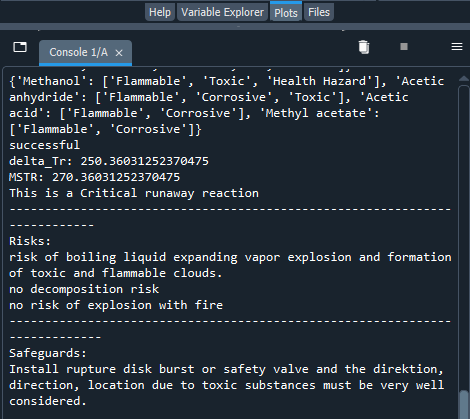
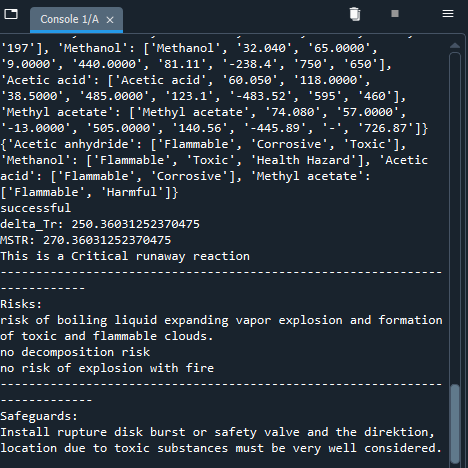
corrected two errors

Changed region(s): [[0.0, 0.0, 1.0, 1.0]]

diff --git a/Yang/Results/Code/Runaway_hazop.py b/Yang/Results/Code/Runaway_hazop.py
@@ -370,7 +370,7 @@ def enter_data():
                     for row in results:
                         subinfo = [row[0], row[1], row[2], row[3], row[4], row[5], row[6], row[7], row[8]]
                         print(subinfo)
-                    query_2 = "SELECT Explosive, Flammable, Oxidizing, CompressedGas, Corrosive, Toxic, Harmful, HealthHazard, EnviromenalHazard FROM stoffdaten_copy WHERE Name = %s"
+                    query_2 = "SELECT Explosive, Flammable, Oxidizing, CompressedGas, Corrosive, Toxic, Harmful, HealthHazard, EnviromenalHazard FROM stoffdaten WHERE Name = %s"
                     cursor.execute(query_2, (sub,))
                     ghs_name = ["Explosive", "Flammable", "Oxidizing", "CompressedGas", "Corrosive", "Toxic", "Harmful", "Health Hazard", "Enviroment Hazard"]
                     result_ghs = cursor.fetchall()
@@ -699,7 +699,7 @@ for i in exist_stoff:
 def consequence_safe_1(overpressure_risk, toxic_risk, flamm_risk):
     if overpressure_risk > 0 and toxic_risk > 0 and flamm_risk > 0:
         consequence_1 = "risk of boiling liquid expanding vapor explosion and formation of toxic and flammable clouds."
-        safeguard_1 = "Install rupture disk burst or safety valve and the direktion, direction, location due to toxic substances must be very well considered."         
+        safeguard_1 = "Install rupture disk burst or safety valve and the direktion, location due to toxic substances must be very well considered."         
     elif overpressure_risk > 0 and toxic_risk > 0 and flamm_risk == 0:
         consequence_1 = "risk of boiling liquid expanding vapor explosion and formation of toxic clouds."
         safeguard_1 = "Install rupture disk burst and the highest level of safety protechtion must be provided to workers on site"
